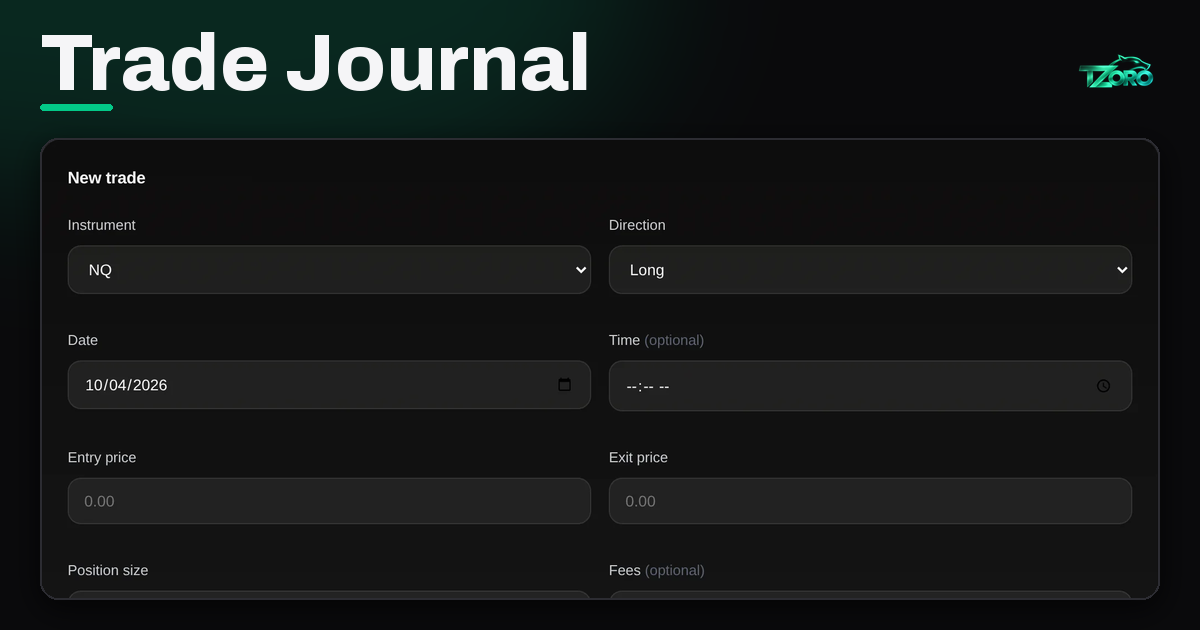
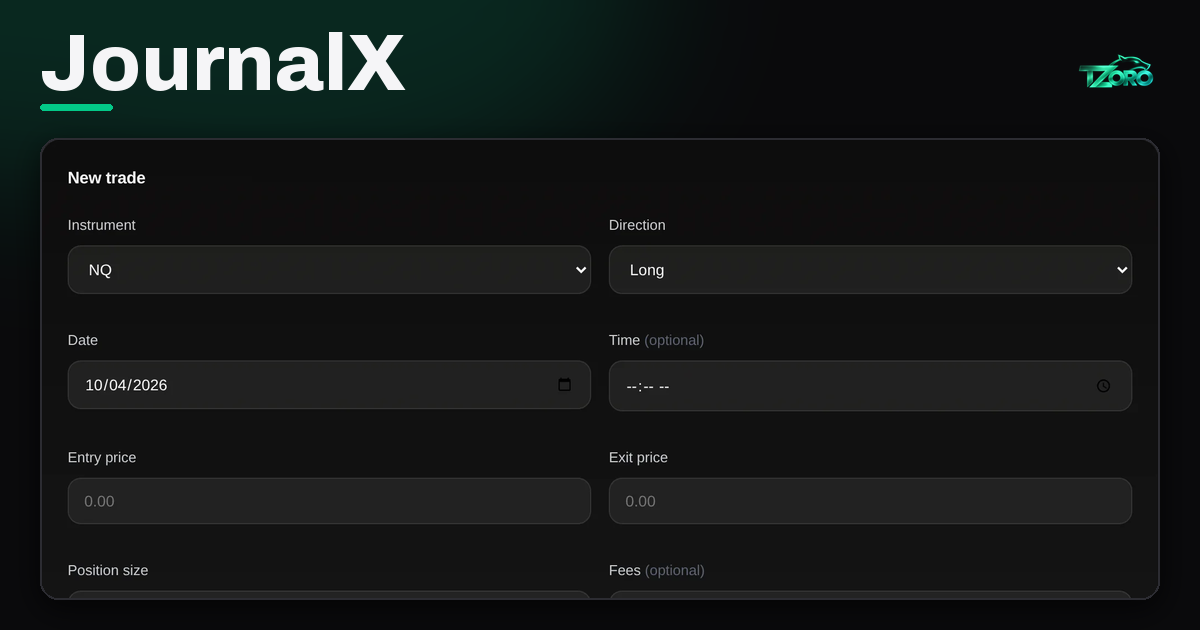
Features pages: cm-page body class, fresh Market Stats shots, regenerated share cards

Changed region(s): [[0.0308, 0.0302, 0.4933, 0.1508]]

diff --git a/features/market-stats.html b/features/market-stats.html
@@ -88,7 +88,7 @@
 <link rel="stylesheet" href="/assets/fx-page.css?v=781">
 <script>try{if(localStorage.getItem('stryker_nav_authed')==='1')document.documentElement.classList.add('nav-authed')}catch(e){}</script>
 </head>
-<body class="dual-shell fp-page">
+<body class="dual-shell fp-page cm-page">
 <a class="skip-link" href="#main">Skip to content</a>
 <nav class="appnav-dock" id="appnav-dock" aria-label="Primary">
   <a class="appnav-dk" data-nav="charts" href="/charts"><span class="appnav-dkbar"></span><span class="appnav-dki"><svg width="21" height="21" viewBox="0 0 24 24" fill="none" stroke="currentColor" stroke-width="1.9" stroke-linecap="round" stroke-linejoin="round" aria-hidden="true"><path d="M7 3v3M7 17v4M17 3v5M17 15v6"/><rect x="4.5" y="6" width="5" height="11" rx="1"/><rect x="14.5" y="8" width="5" height="7" rx="1"/></svg><span class="appnav-new" aria-hidden="true"></span></span><span class="appnav-dkl">ZoroCharts</span></a>
@@ -309,8 +309,8 @@
 <p class="cm-fine cm-in" style="--d:300ms">Historical frequencies with sample sizes. Not predictions. Education only. Not financial advice.</p>
 </div>
 <div class="cm-w"><div class="cm-scene fx-scene" data-scene>
-<div class="cm-fl cm-fl-main" style="--d:350ms"><div class="cm-px" data-depth="6"><figure class="cm-frame cm-hero-frame"><div class="cm-bar"><span class="cm-dots" aria-hidden="true"><i></i><i></i><i></i></span><b>Market Stats · Gap fill</b><span class="cm-tag">Sample data</span></div><img data-fp-nopad class="fx-shot" src="/assets/images/market-stats/hero.webp?v=781" width="1200" height="749" alt="Market Stats gap-fill report with sample sizes and 95% intervals." decoding="async"></figure></div></div>
-<div class="cm-fl fx-phone-fl" style="--d:600ms"><div class="cm-px" data-depth="10"><figure class="fx-phone" aria-label="Phone view"><div class="fx-ph-scr"><i class="fx-ph-isl" aria-hidden="true"></i><img data-fp-nopad class="fx-shot" src="/assets/images/market-stats/hero.webp?v=781" width="1200" height="749" alt="Market Stats report on a phone." decoding="async"></div></figure></div></div>
+<div class="cm-fl cm-fl-main" style="--d:350ms"><div class="cm-px" data-depth="6"><figure class="cm-frame cm-hero-frame"><div class="cm-bar"><span class="cm-dots" aria-hidden="true"><i></i><i></i><i></i></span><b>Market Stats · Gap fill</b><span class="cm-tag">Sample data</span></div><img data-fp-nopad class="fx-shot" src="/assets/images/market-stats/ms-gap.webp?v=781" width="1180" height="775" alt="Market Stats gap-fill report with sample sizes and 95% intervals." decoding="async"></figure></div></div>
+<div class="cm-fl fx-phone-fl" style="--d:600ms"><div class="cm-px" data-depth="10"><figure class="fx-phone" aria-label="Phone view"><div class="fx-ph-scr"><i class="fx-ph-isl" aria-hidden="true"></i><img data-fp-nopad class="fx-shot" src="/assets/images/market-stats/ms-phone.webp?v=781" width="390" height="709" alt="Market Stats report on a phone." decoding="async"></div></figure></div></div>
 <div class="cm-fl fx-fl fx-l1" style="--d:700ms" aria-hidden="true"><div class="cm-px" data-depth="16"><div class="fx-fc"><svg class="ci" viewBox="0 0 24 24" aria-hidden="true" focusable="false"><path d="M4 20V10M10 20V4M16 20v-7M22 20H2"/></svg><div><b>N on every number</b><span>Sample size shown</span></div></div></div></div>
 <div class="cm-fl fx-fl fx-r1" style="--d:780ms" aria-hidden="true"><div class="cm-px" data-depth="18"><div class="fx-fc"><svg class="ci" viewBox="0 0 24 24" aria-hidden="true" focusable="false"><circle cx="12" cy="12" r="9"/><circle cx="12" cy="12" r="4"/></svg><div><b>95% interval</b><span>Room in the estimate</span></div></div></div></div>
 <div class="cm-fl fx-fl fx-r2" style="--d:930ms" aria-hidden="true"><div class="cm-px" data-depth="24"><div class="fx-fc"><svg class="ci" viewBox="0 0 24 24" aria-hidden="true" focusable="false"><circle cx="11" cy="11" r="6.5"/><path d="m20 20-4.2-4.2"/></svg><div><b>See the sessions</b><span>Open one on ZoroCharts</span></div></div></div></div>
@@ -319,17 +319,17 @@
 </header>
 <section class="cm-story fx-story" id="tour" data-fx-story style="--n:5" aria-labelledby="tour-h">
 <div class="cm-sticky"><div class="cm-w cm-story-grid">
-<div class="cm-story-copy"><span class="cm-eyebrow">The reports</span><h2 id="tour-h">Five reports, regular session</h2>
-<ol class="cm-steps-list"><li><span class="cm-sn">1</span><div><b>Gap fill</b><p>How often an opening gap traded back to the prior close, how fast, by gap size and weekday.</p></div></li><li><span class="cm-sn">2</span><div><b>Opening range</b><p>Which side of the first 15 or 30 minutes broke first, and how far price followed through.</p></div></li><li><span class="cm-sn">3</span><div><b>Initial balance</b><p>Whether the first hour’s high, low or both were broken later in the session.</p></div></li><li><span class="cm-sn">4</span><div><b>Prior day levels</b><p>How often the session reached yesterday’s high and low, and whether it closed beyond them.</p></div></li><li><span class="cm-sn">5</span><div><b>Day of week</b><p>Up days by weekday and the typical session range.</p></div></li></ol>
+<div class="cm-story-copy"><span class="cm-eyebrow">The reports</span><h2 id="tour-h">Reports on the regular session</h2>
+<ol class="cm-steps-list"><li><span class="cm-sn">1</span><div><b>Gap fill</b><p>How often an opening gap traded back to the prior close, how fast, by gap size and weekday.</p></div></li><li><span class="cm-sn">2</span><div><b>Opening candle continuation</b><p>How often the first 5, 15 or 30 minute candle closed on the same side as the session.</p></div></li><li><span class="cm-sn">3</span><div><b>Inside and outside days</b><p>Days that stayed inside, or took out both sides of, the day before, and what the next session did.</p></div></li><li><span class="cm-sn">4</span><div><b>Previous day range</b><p>Where the session opened against yesterday’s range, and where it closed.</p></div></li><li><span class="cm-sn">5</span><div><b>Average daily range</b><p>How much of the 20-day average range the session used, and when.</p></div></li></ol>
 <div class="cm-prog-line" aria-hidden="true"><u data-fx-bar></u></div></div>
 <div class="cm-stage-wrap"><div class="cm-stage fx-stage"><div class="cm-sbar"><span class="cm-dots" aria-hidden="true"><i></i><i></i><i></i></span><b>Market Stats</b><span class="cm-tag">Sample data</span></div>
-<div class="fx-sv" role="group" aria-label="Screenshots, one per step"><figure class="fx-sl"><img data-fp-nopad class="fx-shot" src="/assets/images/market-stats/hero.webp?v=781" width="1200" height="749" alt="Gap fill report with sample sizes." decoding="async"></figure><figure class="fx-sl"><img data-fp-nopad class="fx-shot" src="/assets/images/market-stats/hero.webp?v=781" width="1200" height="749" alt="Market Stats opening range report." loading="lazy" decoding="async"></figure><figure class="fx-sl"><img data-fp-nopad class="fx-shot" src="/assets/images/market-stats/hero.webp?v=781" width="1200" height="749" alt="Market Stats initial balance report." loading="lazy" decoding="async"></figure><figure class="fx-sl"><img data-fp-nopad class="fx-shot" src="/assets/images/market-stats/hero.webp?v=781" width="1200" height="749" alt="Market Stats prior day levels report." loading="lazy" decoding="async"></figure><figure class="fx-sl"><img data-fp-nopad class="fx-shot" src="/assets/images/market-stats/hero.webp?v=781" width="1200" height="749" alt="Market Stats day of week report." loading="lazy" decoding="async"></figure></div></div>
+<div class="fx-sv" role="group" aria-label="Screenshots, one per step"><figure class="fx-sl"><img data-fp-nopad class="fx-shot" src="/assets/images/market-stats/ms-gap.webp?v=781" width="1180" height="775" alt="Gap fill report with sample sizes." decoding="async"></figure><figure class="fx-sl"><img data-fp-nopad class="fx-shot" src="/assets/images/market-stats/ms-oc.webp?v=781" width="1180" height="775" alt="Opening candle continuation report with sample sizes." loading="lazy" decoding="async"></figure><figure class="fx-sl"><img data-fp-nopad class="fx-shot" src="/assets/images/market-stats/ms-io.webp?v=781" width="1180" height="775" alt="Inside and outside days report with sample sizes." loading="lazy" decoding="async"></figure><figure class="fx-sl"><img data-fp-nopad class="fx-shot" src="/assets/images/market-stats/ms-pdr.webp?v=781" width="1180" height="775" alt="Previous day range report with sample sizes." loading="lazy" decoding="async"></figure><figure class="fx-sl"><img data-fp-nopad class="fx-shot" src="/assets/images/market-stats/ms-adr.webp?v=781" width="1180" height="775" alt="Average daily range report with sample sizes." loading="lazy" decoding="async"></figure></div></div>
 <p class="cm-story-cap" data-fx-cap aria-hidden="true"></p></div>
 </div></div></section>
 <section class="cm-sec" id="more" aria-labelledby="more-h"><div class="cm-w"><div class="cm-head2 cm-rv"><span class="cm-eyebrow">Built to be honest</span><h2 id="more-h">A small sample should look small</h2><p>Regular session, 09:30 to 16:00 New York, up to three years of 5-minute history.</p></div><div class="fx-bento"><div class="cm-card cm-pad cm-rv" data-tilt><div class="cm-ch"><svg class="ci" viewBox="0 0 24 24" aria-hidden="true" focusable="false"><path d="M20 6L9 17l-5-5"/></svg><b>N on every number</b></div><p class="fx-p">Each card shows how many sessions it covers. Under 30 it carries a low-sample tag; under 10 the number is withheld.</p></div><div class="cm-card cm-pad cm-rv" style="--d:80ms" data-tilt><div class="cm-ch"><svg class="ci" viewBox="0 0 24 24" aria-hidden="true" focusable="false"><circle cx="12" cy="12" r="9"/><circle cx="12" cy="12" r="4"/></svg><b>95% interval</b></div><p class="fx-p">A Wilson interval shows how much room the estimate has, plus a check that the first and second half of the sessions agree.</p></div><div class="cm-card cm-pad cm-rv" style="--d:160ms" data-tilt><div class="cm-ch"><svg class="ci" viewBox="0 0 24 24" aria-hidden="true" focusable="false"><circle cx="11" cy="11" r="6.5"/><path d="m20 20-4.2-4.2"/></svg><b>See the sessions</b></div><p class="fx-p">Tap a number to list the matching sessions, then open one on ZoroCharts with prior day levels, gap and range lines drawn.</p></div></div></div></section>
 <section class="cm-sec" id="how" aria-labelledby="how-h"><div class="cm-w cm-split">
 <div class="cm-copy cm-rv"><span class="cm-eyebrow"><svg class="ci" viewBox="0 0 24 24" aria-hidden="true" focusable="false"><path d="M4 20V10M10 20V4M16 20v-7M22 20H2"/></svg>Free</span><h2 id="how-h">Check a setup against the history</h2><p>Open Market Stats and pick a report. It counts what happened in past sessions and refreshes once a day after the close.</p><ul class="cm-list"><li><svg class="ci" viewBox="0 0 24 24" aria-hidden="true" focusable="false"><path d="M12 22s8-4 8-10V5l-8-3-8 3v7c0 6 8 10 8 10z"/></svg><span>It does not tell you what will happen next.</span></li><li><svg class="ci" viewBox="0 0 24 24" aria-hidden="true" focusable="false"><rect x="3" y="4.5" width="18" height="16" rx="2"/><path d="M3 9.5h18M8 2.5v4M16 2.5v4"/></svg><span>NQ, ES and SPX.</span></li></ul></div>
-<div class="cm-rv" style="--d:120ms"><figure class="cm-frame"><div class="cm-bar"><span class="cm-dots" aria-hidden="true"><i></i><i></i><i></i></span><b>Market Stats</b><span class="cm-tag">Sample data</span></div><img data-fp-nopad class="fx-shot" src="/assets/images/market-stats/hero.webp?v=781" width="1200" height="749" alt="Market Stats report page with sample sizes." loading="lazy" decoding="async"></figure></div>
+<div class="cm-rv" style="--d:120ms"><figure class="cm-frame"><div class="cm-bar"><span class="cm-dots" aria-hidden="true"><i></i><i></i><i></i></span><b>Market Stats</b><span class="cm-tag">Sample data</span></div><img data-fp-nopad class="fx-shot" src="/assets/images/market-stats/ms-pdr.webp?v=781" width="1180" height="775" alt="Previous day range report with sample sizes." loading="lazy" decoding="async"></figure></div>
 </div></section>
 <section class="cm-sec" id="list" aria-labelledby="list-h"><div class="cm-w"><div class="cm-head2 cm-rv"><span class="cm-eyebrow">At a glance</span><h2 id="list-h">What is in it</h2></div><ul class="fx-grid"><li class="cm-card cm-pad cm-rv"><b>Gap fill</b><span>By gap size and weekday.</span></li><li class="cm-card cm-pad cm-rv" style="--d:60ms"><b>Opening range</b><span>15 and 30 minute ranges.</span></li><li class="cm-card cm-pad cm-rv" style="--d:120ms"><b>Initial balance</b><span>First-hour extension.</span></li><li class="cm-card cm-pad cm-rv"><b>Prior day levels</b><span>High and low touched.</span></li><li class="cm-card cm-pad cm-rv" style="--d:60ms"><b>Day of week</b><span>Up days and range.</span></li><li class="cm-card cm-pad cm-rv" style="--d:120ms"><b>Sessions</b><span>Open any session on ZoroCharts.</span></li></ul></div></section>
 <section class="cm-sec" id="faq" aria-labelledby="faq-h"><div class="cm-w"><div class="cm-head2 cm-rv"><span class="cm-eyebrow">Questions</span><h2 id="faq-h">Before you read a number</h2></div><div class="fg-faq cm-faq cm-rv"><details><summary>Does it tell me what will happen next?</summary><div class="fg-a"><p>No. It counts what happened in past sessions. Education only. Not financial advice.</p></div></details><details><summary>Which markets and how much history?</summary><div class="fg-a"><p>NQ, ES and SPX, regular session, up to three years of history. It refreshes once a day after the close.</p></div></details><details><summary>Which plan includes it?</summary><div class="fg-a"><p>Market Stats is free for every account.</p></div></details></div></div></section>

diff --git a/features/gex.html b/features/gex.html
@@ -88,7 +88,7 @@
 <link rel="stylesheet" href="/assets/fx-page.css?v=781">
 <script>try{if(localStorage.getItem('stryker_nav_authed')==='1')document.documentElement.classList.add('nav-authed')}catch(e){}</script>
 </head>
-<body class="dual-shell fp-page" data-no-dragon>
+<body class="dual-shell fp-page cm-page" data-no-dragon>
 <a class="skip-link" href="#main">Skip to content</a>
 <nav class="appnav-dock" id="appnav-dock" aria-label="Primary">
   <a class="appnav-dk" data-nav="charts" href="/charts"><span class="appnav-dkbar"></span><span class="appnav-dki"><svg width="21" height="21" viewBox="0 0 24 24" fill="none" stroke="currentColor" stroke-width="1.9" stroke-linecap="round" stroke-linejoin="round" aria-hidden="true"><path d="M7 3v3M7 17v4M17 3v5M17 15v6"/><rect x="4.5" y="6" width="5" height="11" rx="1"/><rect x="14.5" y="8" width="5" height="7" rx="1"/></svg><span class="appnav-new" aria-hidden="true"></span></span><span class="appnav-dkl">ZoroCharts</span></a>

diff --git a/features/backtesting.html b/features/backtesting.html
@@ -88,7 +88,7 @@
 <link rel="stylesheet" href="/assets/fx-page.css?v=781">
 <script>try{if(localStorage.getItem('stryker_nav_authed')==='1')document.documentElement.classList.add('nav-authed')}catch(e){}</script>
 </head>
-<body class="dual-shell fp-page">
+<body class="dual-shell fp-page cm-page">
 <a class="skip-link" href="#main">Skip to content</a>
 <nav class="appnav-dock" id="appnav-dock" aria-label="Primary">
   <a class="appnav-dk" data-nav="charts" href="/charts"><span class="appnav-dkbar"></span><span class="appnav-dki"><svg width="21" height="21" viewBox="0 0 24 24" fill="none" stroke="currentColor" stroke-width="1.9" stroke-linecap="round" stroke-linejoin="round" aria-hidden="true"><path d="M7 3v3M7 17v4M17 3v5M17 15v6"/><rect x="4.5" y="6" width="5" height="11" rx="1"/><rect x="14.5" y="8" width="5" height="7" rx="1"/></svg><span class="appnav-new" aria-hidden="true"></span></span><span class="appnav-dkl">ZoroCharts</span></a>

diff --git a/features/global-monitor.html b/features/global-monitor.html
@@ -88,7 +88,7 @@
 <link rel="stylesheet" href="/assets/fx-page.css?v=781">
 <script>try{if(localStorage.getItem('stryker_nav_authed')==='1')document.documentElement.classList.add('nav-authed')}catch(e){}</script>
 </head>
-<body class="dual-shell fp-page">
+<body class="dual-shell fp-page cm-page">
 <a class="skip-link" href="#main">Skip to content</a>
 <nav class="appnav-dock" id="appnav-dock" aria-label="Primary">
   <a class="appnav-dk" data-nav="charts" href="/charts"><span class="appnav-dkbar"></span><span class="appnav-dki"><svg width="21" height="21" viewBox="0 0 24 24" fill="none" stroke="currentColor" stroke-width="1.9" stroke-linecap="round" stroke-linejoin="round" aria-hidden="true"><path d="M7 3v3M7 17v4M17 3v5M17 15v6"/><rect x="4.5" y="6" width="5" height="11" rx="1"/><rect x="14.5" y="8" width="5" height="7" rx="1"/></svg><span class="appnav-new" aria-hidden="true"></span></span><span class="appnav-dkl">ZoroCharts</span></a>

diff --git a/features/journal.html b/features/journal.html
@@ -88,7 +88,7 @@
 <link rel="stylesheet" href="/assets/fx-page.css?v=781">
 <script>try{if(localStorage.getItem('stryker_nav_authed')==='1')document.documentElement.classList.add('nav-authed')}catch(e){}</script>
 </head>
-<body class="dual-shell fp-page">
+<body class="dual-shell fp-page cm-page">
 <a class="skip-link" href="#main">Skip to content</a>
 <nav class="appnav-dock" id="appnav-dock" aria-label="Primary">
   <a class="appnav-dk" data-nav="charts" href="/charts"><span class="appnav-dkbar"></span><span class="appnav-dki"><svg width="21" height="21" viewBox="0 0 24 24" fill="none" stroke="currentColor" stroke-width="1.9" stroke-linecap="round" stroke-linejoin="round" aria-hidden="true"><path d="M7 3v3M7 17v4M17 3v5M17 15v6"/><rect x="4.5" y="6" width="5" height="11" rx="1"/><rect x="14.5" y="8" width="5" height="7" rx="1"/></svg><span class="appnav-new" aria-hidden="true"></span></span><span class="appnav-dkl">ZoroCharts</span></a>

diff --git a/features/orderflow.html b/features/orderflow.html
@@ -88,7 +88,7 @@
 <link rel="stylesheet" href="/assets/fx-page.css?v=781">
 <script>try{if(localStorage.getItem('stryker_nav_authed')==='1')document.documentElement.classList.add('nav-authed')}catch(e){}</script>
 </head>
-<body class="dual-shell fp-page">
+<body class="dual-shell fp-page cm-page">
 <a class="skip-link" href="#main">Skip to content</a>
 <nav class="appnav-dock" id="appnav-dock" aria-label="Primary">
   <a class="appnav-dk" data-nav="charts" href="/charts"><span class="appnav-dkbar"></span><span class="appnav-dki"><svg width="21" height="21" viewBox="0 0 24 24" fill="none" stroke="currentColor" stroke-width="1.9" stroke-linecap="round" stroke-linejoin="round" aria-hidden="true"><path d="M7 3v3M7 17v4M17 3v5M17 15v6"/><rect x="4.5" y="6" width="5" height="11" rx="1"/><rect x="14.5" y="8" width="5" height="7" rx="1"/></svg><span class="appnav-new" aria-hidden="true"></span></span><span class="appnav-dkl">ZoroCharts</span></a>

diff --git a/features/smart-money-desk.html b/features/smart-money-desk.html
@@ -88,7 +88,7 @@
 <link rel="stylesheet" href="/assets/fx-page.css?v=781">
 <script>try{if(localStorage.getItem('stryker_nav_authed')==='1')document.documentElement.classList.add('nav-authed')}catch(e){}</script>
 </head>
-<body class="dual-shell fp-page">
+<body class="dual-shell fp-page cm-page">
 <a class="skip-link" href="#main">Skip to content</a>
 <nav class="appnav-dock" id="appnav-dock" aria-label="Primary">
   <a class="appnav-dk" data-nav="charts" href="/charts"><span class="appnav-dkbar"></span><span class="appnav-dki"><svg width="21" height="21" viewBox="0 0 24 24" fill="none" stroke="currentColor" stroke-width="1.9" stroke-linecap="round" stroke-linejoin="round" aria-hidden="true"><path d="M7 3v3M7 17v4M17 3v5M17 15v6"/><rect x="4.5" y="6" width="5" height="11" rx="1"/><rect x="14.5" y="8" width="5" height="7" rx="1"/></svg><span class="appnav-new" aria-hidden="true"></span></span><span class="appnav-dkl">ZoroCharts</span></a>
